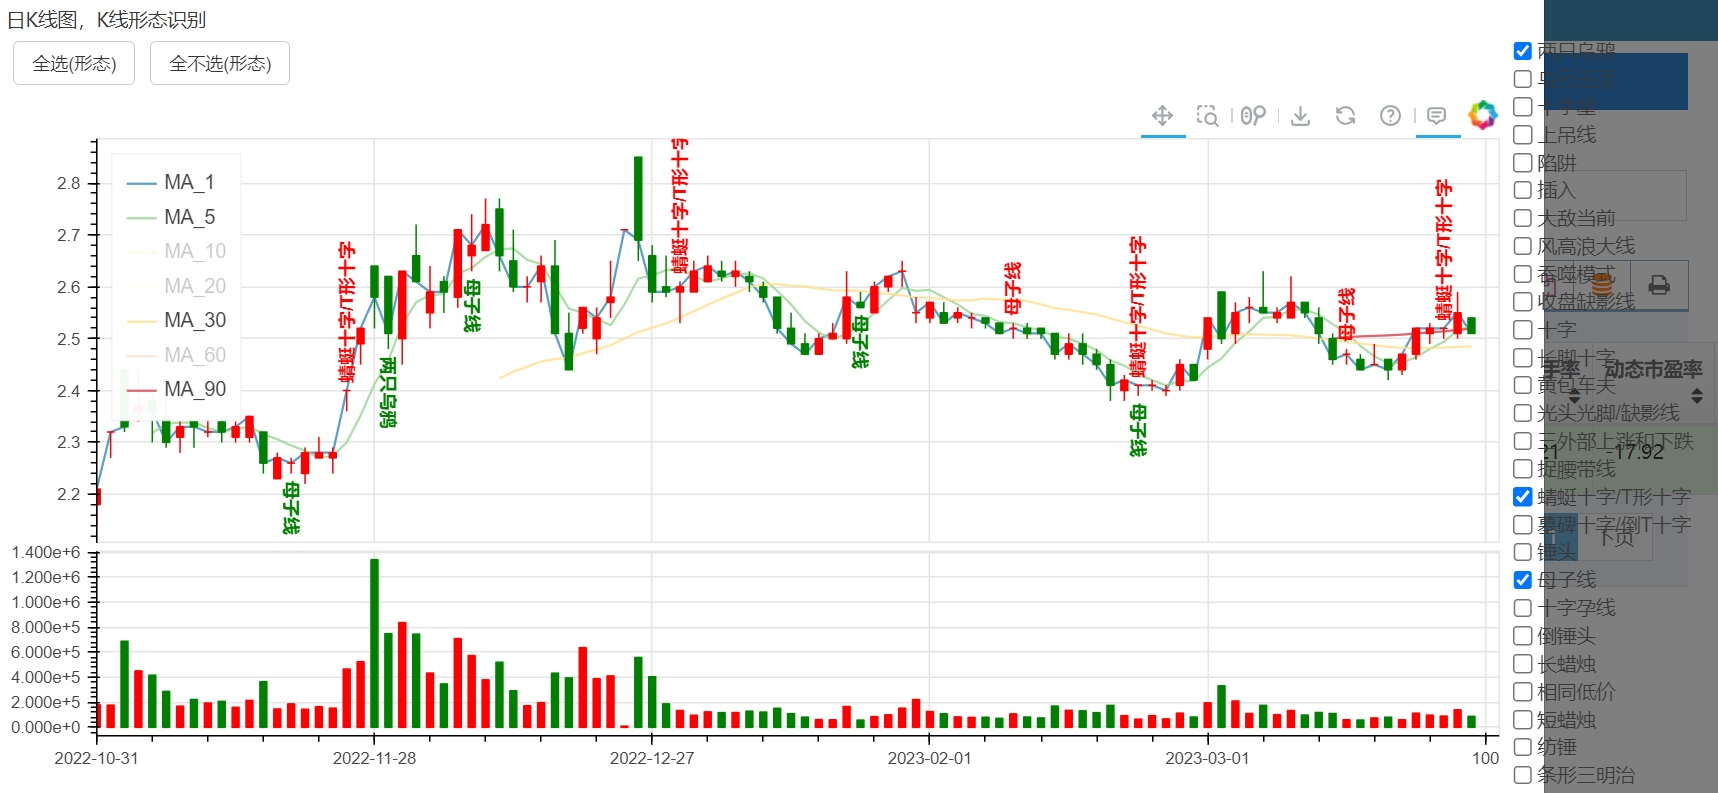
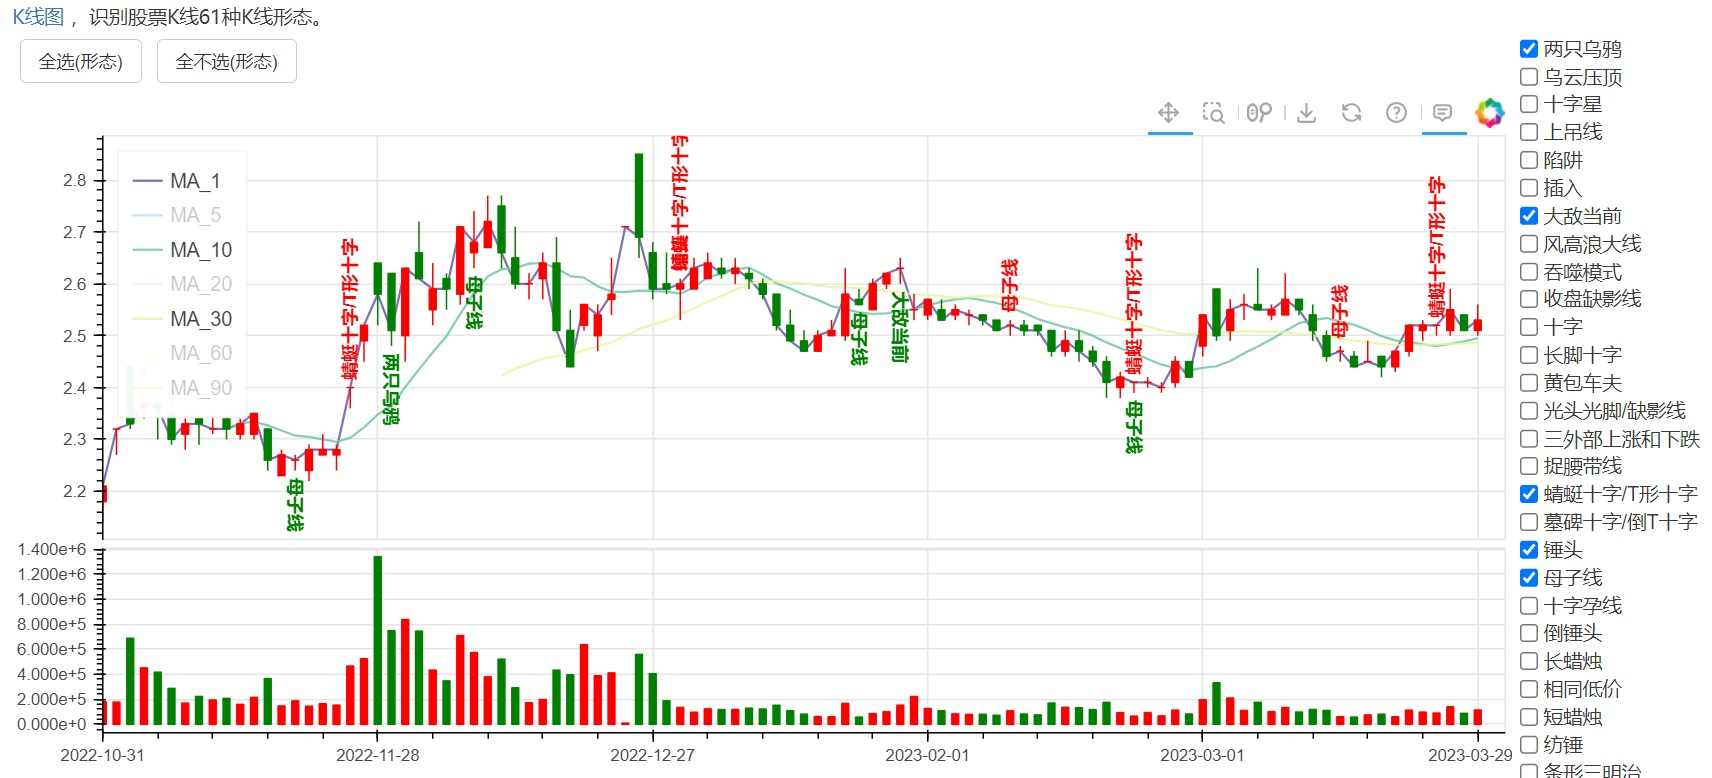
K线形态

Changed region(s): [[0.0, 0.0, 1.0, 1.0], [0.0, 0.0, 0.1857, 0.0925], [0.2786, 0.4627, 0.3096, 0.4936]]

diff --git a/web/templates/stock_indicators.html b/web/templates/stock_indicators.html
@@ -22,7 +22,7 @@
 
 {% for index,element in enumerate(comp_list) %}
 <h4 class="header smaller lighter blue">{{ element["title"] }}</h4>
-<div class="row">{{ element["desc"] }}</div>
+<div class="row">{% raw element["desc"] %}</div>
 <div class="row" id="_col_{{ index + 1 }}" data-column="{{ index }}">
     {% raw element["div"] %}
     {% raw element["script"] %}

diff --git a/web/dataIndicatorsHandler.py b/web/dataIndicatorsHandler.py
@@ -40,7 +40,7 @@ indicators_dic = [
     }, {
         "title": "4，CR指标",
         "desc": """
-            http://wiki.mbalib.com/wiki/CR%E6%8C%87%E6%A0%87 价格动量指标
+            <a href="http://wiki.mbalib.com/wiki/CR%E6%8C%87%E6%A0%87" rel="nofollow" target="_blank">价格动量指标(CR)</a>
             4. CR跌穿a、b、c、d四条线，再由低点向上爬升160时，为短线获利的一个良机，应适当卖出股票。
             5. CR跌至40以下时，是建仓良机。而CR高于300~400时，应注意适当减仓。
         """,
@@ -59,8 +59,8 @@ indicators_dic = [
     }, {
         "title": "6，KDJ指标",
         "desc": """
-            http://wiki.mbalib.com/wiki/%E9%9A%8F%E6%9C%BA%E6%8C%87%E6%A0%87
-            随机指标(KDJ)一般是根据统计学的原理，通过一个特定的周期（常为9日、9周等）内出现过的最高价、最低价及最后一个计算周期的收盘价及这三者之间的比例关系，来计算最后一个计算周期的未成熟随机值RSV，然后根据平滑移动平均线的方法来计算K值、D值与J值，并绘成曲线图来研判股票走势。
+            <a href="http://wiki.mbalib.com/wiki/%E9%9A%8F%E6%9C%BA%E6%8C%87%E6%A0%87" rel="nofollow" target="_blank">随机指标(KDJ)</a>
+            一般是根据统计学的原理，通过一个特定的周期（常为9日、9周等）内出现过的最高价、最低价及最后一个计算周期的收盘价及这三者之间的比例关系，来计算最后一个计算周期的未成熟随机值RSV，然后根据平滑移动平均线的方法来计算K值、D值与J值，并绘成曲线图来研判股票走势。
             （3）在使用中，常有J线的指标，即3乘以K值减2乘以D值（3K－2D＝J），其目的是求出K值与D值的最大乖离程度，以领先KD值找出底部和头部。J大于100时为超买，小于10时为超卖。
             （4）KDJ指标应用法则： 1、K值与D值永远介于0～100。D值>80，行情呈现超买现象;D值<20，行情呈现超卖现象。 2、当K值>D值时，显示趋势是上涨，因而K线向上突破D线时，为买进信号;当K值 3、K线与D线在70以上，30以下发生交叉，进行买卖比较可靠。如果KD黄金交叉发生在20以下时，是最佳买点;如果KD死亡交叉发生在80以上时，是最佳卖点。 4、KD指标不适于发行量小、交易不活跃的股票。但KD指标对大盘和热门大盘股有极高准确性。 5、当KD指标与股价出现背离时，一般为转势信号，中期或短期的走势有可能已见顶或见底。 6、当K值和D值上升或下跌的速度减弱，倾斜度趋于平缓时，这是短期转势的预警信号。 KDJ指标是三条曲线，在应用时主要从五个方面进行考虑： 1、KD的取值的绝对数字; 2、KD曲线的形态; 3、KD指标的交叉; 4、KD指标的背离; 5、J指标的取值大小。
         """,
@@ -68,16 +68,15 @@ indicators_dic = [
     }, {
         "title": "7，SMA指标",
         "desc": """
-            http://wiki.mbalib.com/wiki/Sma
-            简单移动平均线（Simple Moving Average，SMA）
+            <a href="http://wiki.mbalib.com/wiki/Sma" rel="nofollow" target="_blank">简单移动平均线（Simple Moving Average，SMA）</a> 
             可以动态输入参数，获得几天的移动平均。
         """,
         "dic": [("close",), ("close_5_sma", "close_10_sma")]
     }, {
         "title": "8，MACD指标",
         "desc": """
-            http://wiki.mbalib.com/wiki/MACD
-            平滑异同移动平均线(Moving Average Convergence Divergence，简称MACD指标)，也称移动平均聚散指标
+            <a href="http://wiki.mbalib.com/wiki/MACD" rel="nofollow" target="_blank">平滑异同移动平均线(Moving Average Convergence Divergence，简称MACD指标)</a>
+            也称移动平均聚散指标
             MACD
             stock["macd"]
             MACD signal line
@@ -92,8 +91,7 @@ indicators_dic = [
     }, {
         "title": "9，BOLL指标",
         "desc": """
-        http://wiki.mbalib.com/wiki/BOLL
-            布林线指标(Bollinger Bands)
+            <a href="http://wiki.mbalib.com/wiki/BOLL" rel="nofollow" target="_blank">布林线指标(Bollinger Bands)</a>
             bolling, including upper band and lower band
             stock["boll"]
             stock["boll_ub"]
@@ -105,8 +103,8 @@ indicators_dic = [
     }, {
         "title": "10，RSI指标",
         "desc": """
-            http://wiki.mbalib.com/wiki/RSI
-            相对强弱指标（Relative Strength Index，简称RSI），也称相对强弱指数、相对力度指数
+            <a href="http://wiki.mbalib.com/wiki/RSI" rel="nofollow" target="_blank">相对强弱指标（Relative Strength Index，简称RSI）</a> 
+            ，也称相对强弱指数、相对力度指数
             6 days RSI
             stock["rsi_6"]
             12 days RSI
@@ -119,8 +117,8 @@ indicators_dic = [
     }, {
         "title": "11，WR指标",
         "desc": """
-            http://wiki.mbalib.com/wiki/%E5%A8%81%E5%BB%89%E6%8C%87%E6%A0%87
-            威廉指数（Williams%Rate）该指数是利用摆动点来度量市场的超买超卖现象。
+            <a href="http://wiki.mbalib.com/wiki/%E5%A8%81%E5%BB%89%E6%8C%87%E6%A0%87" rel="nofollow" target="_blank">威廉指数（Williams%Rate）</a>
+            该指数是利用摆动点来度量市场的超买超卖现象。
             10 days WR
             stock["wr_10"]
             6 days WR
@@ -130,8 +128,8 @@ indicators_dic = [
     }, {
         "title": "12，CCI指标",
         "desc": """
-            http://wiki.mbalib.com/wiki/%E9%A1%BA%E5%8A%BF%E6%8C%87%E6%A0%87
-            顺势指标又叫CCI指标，其英文全称为“Commodity Channel Index”，
+            <a href="http://wiki.mbalib.com/wiki/%E9%A1%BA%E5%8A%BF%E6%8C%87%E6%A0%87" rel="nofollow" target="_blank">顺势指标(CCI)</a>
+            其英文全称为“Commodity Channel Index”，
             是由美国股市分析家唐纳德·蓝伯特（Donald Lambert）所创造的，是一种重点研判股价偏离度的股市分析工具。
              CCI, default to 14 days
             stock["cci"]
@@ -146,9 +144,8 @@ indicators_dic = [
     }, {
         "title": "13，TR、ATR指标",
         "desc": """
-            http://wiki.mbalib.com/wiki/%E5%9D%87%E5%B9%85%E6%8C%87%E6%A0%87
-            均幅指标（Average True Ranger,ATR）
-            均幅指标（ATR）是取一定时间周期内的股价波动幅度的移动平均值，主要用于研判买卖时机。
+           <a href="http://wiki.mbalib.com/wiki/%E5%9D%87%E5%B9%85%E6%8C%87%E6%A0%87" rel="nofollow" target="_blank">均幅指标（Average True Ranger,ATR）</a>
+            是取一定时间周期内的股价波动幅度的移动平均值，主要用于研判买卖时机。
             TR (true range)
             stock["tr"]
              ATR (Average True Range)
@@ -159,8 +156,8 @@ indicators_dic = [
     }, {
         "title": "14，DMA指标",
         "desc": """
-            http://wiki.mbalib.com/wiki/DMA
-            DMA指标（Different of Moving Average）又叫平行线差指标，是目前股市分析技术指标中的一种中短期指标，它常用于大盘指数和个股的研判。
+            <a href="http://wiki.mbalib.com/wiki/DMA" rel="nofollow" target="_blank">DMA指标（Different of Moving Average）又叫平行线差指标</a> 
+            ，是目前股市分析技术指标中的一种中短期指标，它常用于大盘指数和个股的研判。
             DMA, difference of 10 and 50 moving average
             stock["dma"]
         """,
@@ -168,12 +165,10 @@ indicators_dic = [
     }, {
         "title": "15，DMI，+DI，-DI，DX，ADX，ADXR指标",
         "desc": """
-            http://wiki.mbalib.com/wiki/DMI
-            动向指数Directional Movement Index,DMI）
-            http://wiki.mbalib.com/wiki/ADX
-            平均趋向指标（Average Directional Indicator，简称ADX）
-            http://wiki.mbalib.com/wiki/%E5%B9%B3%E5%9D%87%E6%96%B9%E5%90%91%E6%8C%87%E6%95%B0%E8%AF%84%E4%BC%B0
-            平均方向指数评估（ADXR）实际是今日ADX与前面某一日的ADX的平均值。ADXR在高位与ADX同步下滑，可以增加对ADX已经调头的尽早确认。
+            <a href="http://wiki.mbalib.com/wiki/DMI" rel="nofollow" target="_blank">动向指数Directional Movement Index,DMI）</a>
+            <a href="http://wiki.mbalib.com/wiki/ADX" rel="nofollow" target="_blank">平均趋向指标（Average Directional Indicator，简称ADX）</a>
+            <a href="http://wiki.mbalib.com/wiki/%E5%B9%B3%E5%9D%87%E6%96%B9%E5%90%91%E6%8C%87%E6%95%B0%E8%AF%84%E4%BC%B0" rel="nofollow" target="_blank">平均方向指数评估（ADXR）</a>
+            均方向指数评估（ADXR）实际是今日ADX与前面某一日的ADX的平均值。ADXR在高位与ADX同步下滑，可以增加对ADX已经调头的尽早确认。
             ADXR是ADX的附属产品，只能发出一种辅助和肯定的讯号，并非入市的指标，而只需同时配合动向指标(DMI)的趋势才可作出买卖策略。
             在应用时，应以ADX为主，ADXR为辅。
         """,
@@ -181,15 +176,14 @@ indicators_dic = [
     }, {
         "title": "16，TRIX，MATRIX指标",
         "desc": """
-            http://wiki.mbalib.com/wiki/TRIX
-            TRIX指标又叫三重指数平滑移动平均指标（Triple Exponentially Smoothed Average）
+            <a href="http://wiki.mbalib.com/wiki/TRIX" rel="nofollow" target="_blank">TRIX指标又叫三重指数平滑移动平均指标（Triple Exponentially Smoothed Average）</a>
         """,
         "dic": [("close",), ("trix", "trix_9_sma")]
     }, {
         "title": "17，VR，MAVR指标",
         "desc": """
-            http://wiki.mbalib.com/wiki/%E6%88%90%E4%BA%A4%E9%87%8F%E6%AF%94%E7%8E%87
-            成交量比率（Volumn Ratio，VR）（简称VR），是一项通过分析股价上升日成交额（或成交量，下同）与股价下降日成交额比值，
+            <a href="http://wiki.mbalib.com/wiki/%E6%88%90%E4%BA%A4%E9%87%8F%E6%AF%94%E7%8E%87" rel="nofollow" target="_blank">成交量比率（Volumn Ratio，VR）（简称VR）</a>
+            ，是一项通过分析股价上升日成交额（或成交量，下同）与股价下降日成交额比值，
             从而掌握市场买卖气势的中期技术指标。
              VR, default to 26 days
             stock["vr"]
@@ -269,7 +263,7 @@ def add_kline(stock, date):
     try:
         tmp_year, tmp_month, tmp_day = date.split("-")
         start_date = datetime.datetime(int(tmp_year), int(tmp_month), int(tmp_day))
-        _day = (datetime.datetime.now() - start_date).days - 120
+        _day = (datetime.datetime.now() - start_date).days - 150
         if _day < 0:
             run_date = (start_date + datetime.timedelta(days=_day))
         run_date_str = run_date.strftime("%Y-%m-%d")
@@ -277,7 +271,7 @@ def add_kline(stock, date):
         data = stock.loc[mask]
 
         stock_column = tbs.STOCK_KLINE_PATTERN_DATA['columns']
-        data = kpr.get_pattern_recognitions(data, stock_column, threshold=120)
+        data = kpr.get_pattern_recognitions(data, stock_column, threshold=150)
         data['index'] = list(np.arange(len(data)))
 
         average_labels = ["MA_1", "MA_5", "MA_10", "MA_20", 'MA_30', 'MA_60', 'MA_90']
@@ -381,7 +375,10 @@ def add_kline(stock, date):
             "script": script,
             "div": div,
             "title": "K线",
-            "desc": """日K线图，K线形态识别"""
+            "desc": """
+                <a href="https://wiki.mbalib.com/wiki/K%E7%BA%BF%E7%90%86%E8%AE%BA" rel="nofollow" target="_blank">K线图</a>
+                ，识别股票K线61种K线形态。
+            """
         }
     except Exception as e:
         logging.debug("{}处理异常：{}".format('dataIndicatorsHandler.add_kline', e))
